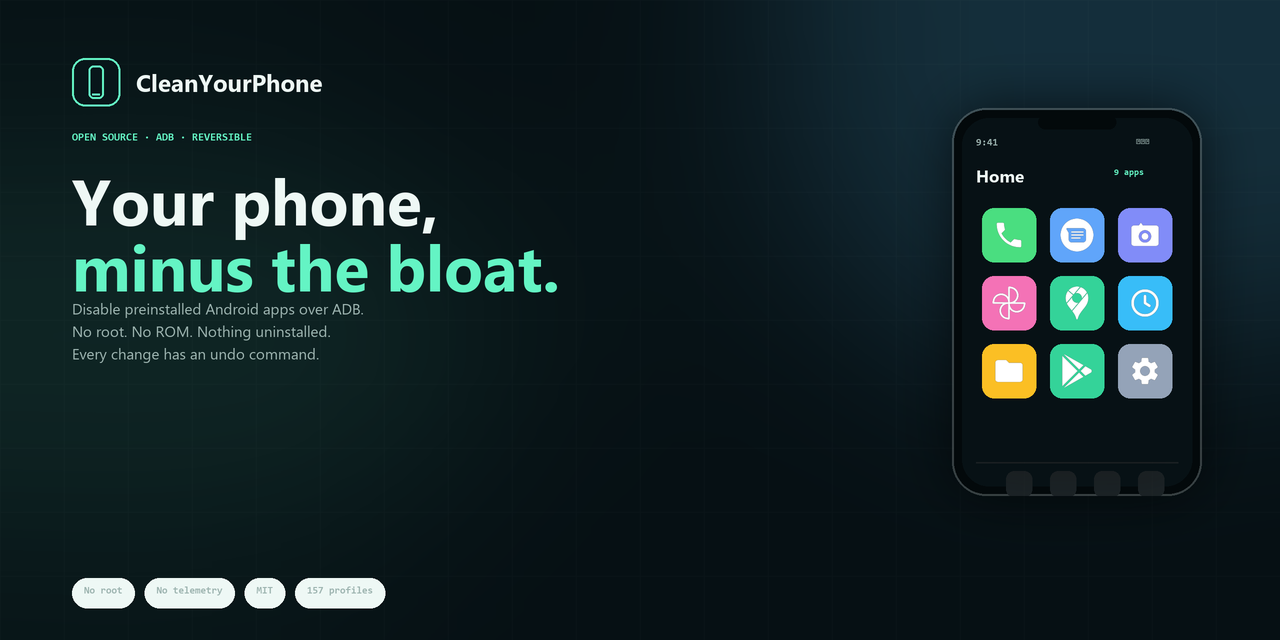
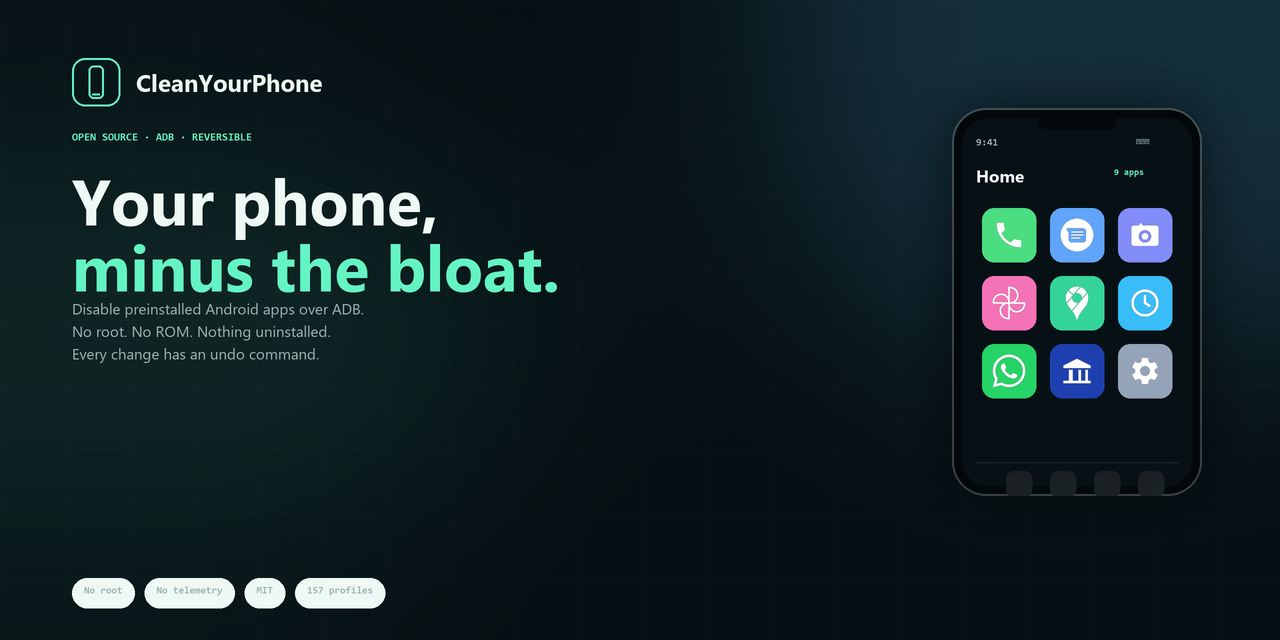
site: make the before/after demo reflect real OEM bloat
The demo now keeps WhatsApp, banking, photos and the rest of the user's apps. It removes only preinstalled OEM services: Samsung Free, TV Plus, Bixby, Tips, Themes, Games and Cloud. Update the plan counts, the hero copy, the note under the plan, the app marks and the banner/OG renders.

The previous Facebook/TikTok/Netflix/Spotify/Booking/AliExpress tiles were user apps, not what the skill disables, so they are removed.

Changed region(s): [[0.75, 0.5312, 0.875, 0.625]]

diff --git a/es.html b/es.html
@@ -83,7 +83,7 @@
       <div class="hero-copy">
         <p class="eyebrow"><span class="dot"></span> Código abierto · ADB · Reversible</p>
         <h1>Tu móvil,<br><span class="accent">sin lo que sobra.</span></h1>
-        <p class="lead">Una skill para agentes que desactiva apps preinstaladas de Android por ADB. Sin root, sin ROM, sin desinstalar nada y con un comando para deshacerlo todo.</p>
+        <p class="lead">Una skill para agentes que desactiva apps preinstaladas del fabricante por ADB. Sin root, sin ROM, sin desinstalar nada y con un comando para deshacerlo todo. WhatsApp, el banco y tus propias apps se quedan.</p>
         <div class="hero-actions">
           <a class="button button-primary" href="#how">Cómo funciona <span aria-hidden="true">→</span></a>
           <a class="button button-ghost" href="https://github.com/jparedesDS/clean-your-phone" rel="noopener">Ver en GitHub</a>
@@ -112,23 +112,23 @@
               <span class="phone-label">Inicio</span>
               <span class="phone-count" data-count>9 apps</span>
             </div>
-            <div class="app-grid" id="appGrid" data-view="after">
+            <div class="app-grid" id="appGrid" data-view="after" aria-label="Before and after: preinstalled OEM apps are disabled; your apps stay">
               <div class="app"><span class="app-icon tile-phone" aria-hidden="true"><img src="assets/apps/phone.svg" alt="" width="24" height="24"></span><span class="app-name">Teléfono</span></div>
               <div class="app"><span class="app-icon tile-messages" aria-hidden="true"><img src="assets/apps/googlemessages.svg" alt="" width="24" height="24"></span><span class="app-name">Mensajes</span></div>
               <div class="app"><span class="app-icon tile-camera" aria-hidden="true"><img src="assets/apps/camera.svg" alt="" width="24" height="24"></span><span class="app-name">Cámara</span></div>
               <div class="app"><span class="app-icon tile-photos" aria-hidden="true"><img src="assets/apps/googlephotos.svg" alt="" width="24" height="24"></span><span class="app-name">Fotos</span></div>
               <div class="app"><span class="app-icon tile-maps" aria-hidden="true"><img src="assets/apps/googlemaps.svg" alt="" width="24" height="24"></span><span class="app-name">Mapas</span></div>
               <div class="app"><span class="app-icon tile-clock" aria-hidden="true"><img src="assets/apps/clock.svg" alt="" width="24" height="24"></span><span class="app-name">Reloj</span></div>
-              <div class="app"><span class="app-icon tile-files" aria-hidden="true"><img src="assets/apps/files.svg" alt="" width="24" height="24"></span><span class="app-name">Archivos</span></div>
-              <div class="app"><span class="app-icon tile-play" aria-hidden="true"><img src="assets/apps/googleplay.svg" alt="" width="24" height="24"></span><span class="app-name">Play Store</span></div>
+              <div class="app"><span class="app-icon tile-whatsapp" aria-hidden="true"><img src="assets/apps/whatsapp.svg" alt="" width="24" height="24"></span><span class="app-name">WhatsApp</span></div>
+              <div class="app"><span class="app-icon tile-bank" aria-hidden="true"><img src="assets/apps/bank.svg" alt="" width="24" height="24"></span><span class="app-name">Banco</span></div>
               <div class="app"><span class="app-icon tile-settings" aria-hidden="true"><img src="assets/apps/settings.svg" alt="" width="24" height="24"></span><span class="app-name">Ajustes</span></div>
-              <div class="app bloat"><span class="app-icon tile-amazon" aria-hidden="true"><img src="assets/apps/amazon.svg" alt="" width="24" height="24"></span><span class="app-name">Amazon</span></div>
-              <div class="app bloat"><span class="app-icon tile-tiktok" aria-hidden="true"><img src="assets/apps/tiktok.svg" alt="" width="24" height="24"></span><span class="app-name">TikTok</span></div>
-              <div class="app bloat"><span class="app-icon tile-netflix" aria-hidden="true"><img src="assets/apps/netflix.svg" alt="" width="24" height="24"></span><span class="app-name">Netflix</span></div>
-              <div class="app bloat"><span class="app-icon tile-spotify" aria-hidden="true"><img src="assets/apps/spotify.svg" alt="" width="24" height="24"></span><span class="app-name">Spotify</span></div>
-              <div class="app bloat"><span class="app-icon tile-booking" aria-hidden="true"><img src="assets/apps/bookingdotcom.svg" alt="" width="24" height="24"></span><span class="app-name">Booking.com</span></div>
-              <div class="app bloat"><span class="app-icon tile-aliexpress" aria-hidden="true"><img src="assets/apps/aliexpress.svg" alt="" width="24" height="24"></span><span class="app-name">AliExpress</span></div>
-              <div class="app bloat"><span class="app-icon tile-facebook" aria-hidden="true"><img src="assets/apps/facebook.svg" alt="" width="24" height="24"></span><span class="app-name">Facebook</span></div>
+              <div class="app bloat"><span class="app-icon tile-samsung" aria-hidden="true"><img src="assets/apps/samsung.svg" alt="" width="24" height="24"></span><span class="app-name">Samsung Free</span></div>
+              <div class="app bloat"><span class="app-icon tile-tvplus" aria-hidden="true"><img src="assets/apps/tvplus.svg" alt="" width="24" height="24"></span><span class="app-name">TV Plus</span></div>
+              <div class="app bloat"><span class="app-icon tile-bixby" aria-hidden="true"><img src="assets/apps/bixby.svg" alt="" width="24" height="24"></span><span class="app-name">Bixby</span></div>
+              <div class="app bloat"><span class="app-icon tile-tips" aria-hidden="true"><img src="assets/apps/tips.svg" alt="" width="24" height="24"></span><span class="app-name">Consejos</span></div>
+              <div class="app bloat"><span class="app-icon tile-themes" aria-hidden="true"><img src="assets/apps/themes.svg" alt="" width="24" height="24"></span><span class="app-name">Temas</span></div>
+              <div class="app bloat"><span class="app-icon tile-games" aria-hidden="true"><img src="assets/apps/games.svg" alt="" width="24" height="24"></span><span class="app-name">Juegos</span></div>
+              <div class="app bloat"><span class="app-icon tile-cloud" aria-hidden="true"><img src="assets/apps/cloud.svg" alt="" width="24" height="24"></span><span class="app-name">Nube</span></div>
             </div>
             <div class="phone-dock" aria-hidden="true"><span></span><span></span><span></span><span></span></div>
           </div>
@@ -136,9 +136,10 @@
         <div class="plan-card" aria-label="Plan de ejemplo">
           <div class="plan-head"><span class="plan-file">plan.json</span><span class="plan-status">revisar antes de aplicar</span></div>
           <div class="plan-row"><span class="plan-action disable">DESACTIVAR</span><span>5 paquetes</span><span class="plan-note">un lote</span></div>
-          <div class="plan-row"><span class="plan-action ask">PREGUNTAR</span><span>3 paquetes</span><span class="plan-note">tu decisión</span></div>
+          <div class="plan-row"><span class="plan-action ask">PREGUNTAR</span><span>2 paquetes</span><span class="plan-note">tu decisión</span></div>
           <div class="plan-row"><span class="plan-action blocked">BLOQUEADO</span><span>0 paquetes</span><span class="plan-note">protegido</span></div>
         </div>
+        <p class="demo-note">Solo entran apps preinstaladas del fabricante. WhatsApp, el banco y tus fotos se quedan.</p>
       </div>
     </section>
 

diff --git a/index.html b/index.html
@@ -83,7 +83,7 @@
       <div class="hero-copy">
         <p class="eyebrow"><span class="dot"></span> Open source · ADB · Reversible</p>
         <h1>Your phone,<br><span class="accent">minus the bloat.</span></h1>
-        <p class="lead">A skill for coding agents that disables preinstalled Android apps over ADB. No root, no custom ROM, nothing uninstalled, and one command to undo every change.</p>
+        <p class="lead">A skill for coding agents that disables preinstalled OEM apps over ADB. No root, no custom ROM, nothing uninstalled, and one command to undo every change. WhatsApp, banking and your own apps stay.</p>
         <div class="hero-actions">
           <a class="button button-primary" href="#how">See how it works <span aria-hidden="true">→</span></a>
           <a class="button button-ghost" href="https://github.com/jparedesDS/clean-your-phone" rel="noopener">View on GitHub</a>
@@ -112,23 +112,23 @@
               <span class="phone-label">Home</span>
               <span class="phone-count" data-count>9 apps</span>
             </div>
-            <div class="app-grid" id="appGrid" data-view="after">
+            <div class="app-grid" id="appGrid" data-view="after" aria-label="Before and after: preinstalled OEM apps are disabled; your apps stay">
               <div class="app"><span class="app-icon tile-phone" aria-hidden="true"><img src="assets/apps/phone.svg" alt="" width="24" height="24"></span><span class="app-name">Phone</span></div>
               <div class="app"><span class="app-icon tile-messages" aria-hidden="true"><img src="assets/apps/googlemessages.svg" alt="" width="24" height="24"></span><span class="app-name">Messages</span></div>
               <div class="app"><span class="app-icon tile-camera" aria-hidden="true"><img src="assets/apps/camera.svg" alt="" width="24" height="24"></span><span class="app-name">Camera</span></div>
               <div class="app"><span class="app-icon tile-photos" aria-hidden="true"><img src="assets/apps/googlephotos.svg" alt="" width="24" height="24"></span><span class="app-name">Photos</span></div>
               <div class="app"><span class="app-icon tile-maps" aria-hidden="true"><img src="assets/apps/googlemaps.svg" alt="" width="24" height="24"></span><span class="app-name">Maps</span></div>
               <div class="app"><span class="app-icon tile-clock" aria-hidden="true"><img src="assets/apps/clock.svg" alt="" width="24" height="24"></span><span class="app-name">Clock</span></div>
-              <div class="app"><span class="app-icon tile-files" aria-hidden="true"><img src="assets/apps/files.svg" alt="" width="24" height="24"></span><span class="app-name">Files</span></div>
-              <div class="app"><span class="app-icon tile-play" aria-hidden="true"><img src="assets/apps/googleplay.svg" alt="" width="24" height="24"></span><span class="app-name">Play Store</span></div>
+              <div class="app"><span class="app-icon tile-whatsapp" aria-hidden="true"><img src="assets/apps/whatsapp.svg" alt="" width="24" height="24"></span><span class="app-name">WhatsApp</span></div>
+              <div class="app"><span class="app-icon tile-bank" aria-hidden="true"><img src="assets/apps/bank.svg" alt="" width="24" height="24"></span><span class="app-name">Bank</span></div>
               <div class="app"><span class="app-icon tile-settings" aria-hidden="true"><img src="assets/apps/settings.svg" alt="" width="24" height="24"></span><span class="app-name">Settings</span></div>
-              <div class="app bloat"><span class="app-icon tile-amazon" aria-hidden="true"><img src="assets/apps/amazon.svg" alt="" width="24" height="24"></span><span class="app-name">Amazon</span></div>
-              <div class="app bloat"><span class="app-icon tile-tiktok" aria-hidden="true"><img src="assets/apps/tiktok.svg" alt="" width="24" height="24"></span><span class="app-name">TikTok</span></div>
-              <div class="app bloat"><span class="app-icon tile-netflix" aria-hidden="true"><img src="assets/apps/netflix.svg" alt="" width="24" height="24"></span><span class="app-name">Netflix</span></div>
-              <div class="app bloat"><span class="app-icon tile-spotify" aria-hidden="true"><img src="assets/apps/spotify.svg" alt="" width="24" height="24"></span><span class="app-name">Spotify</span></div>
-              <div class="app bloat"><span class="app-icon tile-booking" aria-hidden="true"><img src="assets/apps/bookingdotcom.svg" alt="" width="24" height="24"></span><span class="app-name">Booking.com</span></div>
-              <div class="app bloat"><span class="app-icon tile-aliexpress" aria-hidden="true"><img src="assets/apps/aliexpress.svg" alt="" width="24" height="24"></span><span class="app-name">AliExpress</span></div>
-              <div class="app bloat"><span class="app-icon tile-facebook" aria-hidden="true"><img src="assets/apps/facebook.svg" alt="" width="24" height="24"></span><span class="app-name">Facebook</span></div>
+              <div class="app bloat"><span class="app-icon tile-samsung" aria-hidden="true"><img src="assets/apps/samsung.svg" alt="" width="24" height="24"></span><span class="app-name">Samsung Free</span></div>
+              <div class="app bloat"><span class="app-icon tile-tvplus" aria-hidden="true"><img src="assets/apps/tvplus.svg" alt="" width="24" height="24"></span><span class="app-name">TV Plus</span></div>
+              <div class="app bloat"><span class="app-icon tile-bixby" aria-hidden="true"><img src="assets/apps/bixby.svg" alt="" width="24" height="24"></span><span class="app-name">Bixby</span></div>
+              <div class="app bloat"><span class="app-icon tile-tips" aria-hidden="true"><img src="assets/apps/tips.svg" alt="" width="24" height="24"></span><span class="app-name">Tips</span></div>
+              <div class="app bloat"><span class="app-icon tile-themes" aria-hidden="true"><img src="assets/apps/themes.svg" alt="" width="24" height="24"></span><span class="app-name">Themes</span></div>
+              <div class="app bloat"><span class="app-icon tile-games" aria-hidden="true"><img src="assets/apps/games.svg" alt="" width="24" height="24"></span><span class="app-name">Games</span></div>
+              <div class="app bloat"><span class="app-icon tile-cloud" aria-hidden="true"><img src="assets/apps/cloud.svg" alt="" width="24" height="24"></span><span class="app-name">Cloud</span></div>
             </div>
             <div class="phone-dock" aria-hidden="true"><span></span><span></span><span></span><span></span></div>
           </div>
@@ -136,9 +136,10 @@
         <div class="plan-card" aria-label="Example plan">
           <div class="plan-head"><span class="plan-file">plan.json</span><span class="plan-status">review before apply</span></div>
           <div class="plan-row"><span class="plan-action disable">DISABLE</span><span>5 packages</span><span class="plan-note">one batch</span></div>
-          <div class="plan-row"><span class="plan-action ask">ASK</span><span>3 packages</span><span class="plan-note">your call</span></div>
+          <div class="plan-row"><span class="plan-action ask">ASK</span><span>2 packages</span><span class="plan-note">your call</span></div>
           <div class="plan-row"><span class="plan-action blocked">BLOCKED</span><span>0 packages</span><span class="plan-note">protected</span></div>
         </div>
+        <p class="demo-note">Only preinstalled OEM apps enter the plan. WhatsApp, banking and your photos stay.</p>
       </div>
     </section>
 

diff --git a/styles.css b/styles.css
@@ -406,16 +406,16 @@ p { margin: 0; }
 .tile-photos { background: linear-gradient(140deg, #f472b6, #db2777); }
 .tile-maps { background: linear-gradient(140deg, #34d399, #0f9d58); }
 .tile-clock { background: linear-gradient(140deg, #38bdf8, #0284c7); }
-.tile-files { background: linear-gradient(140deg, #fbbf24, #d97706); }
-.tile-play { background: linear-gradient(140deg, #34d399, #047857); }
 .tile-settings { background: linear-gradient(140deg, #94a3b8, #475569); }
-.tile-amazon { background: linear-gradient(140deg, #37475a, #131a22); }
-.tile-tiktok { background: #010101; }
-.tile-netflix { background: #000000; }
-.tile-spotify { background: #1db954; }
-.tile-booking { background: #003b95; }
-.tile-aliexpress { background: #e62e04; }
-.tile-facebook { background: #1877f2; }
+.tile-whatsapp { background: #25d366; }
+.tile-bank { background: linear-gradient(140deg, #3b82f6, #1e40af); }
+.tile-samsung { background: #1428a0; }
+.tile-tvplus { background: linear-gradient(140deg, #334155, #0f172a); }
+.tile-bixby { background: linear-gradient(140deg, #8b5cf6, #6d28d9); }
+.tile-tips { background: linear-gradient(140deg, #fbbf24, #d97706); }
+.tile-themes { background: linear-gradient(140deg, #f472b6, #be185d); }
+.tile-games { background: linear-gradient(140deg, #a78bfa, #7c3aed); }
+.tile-cloud { background: linear-gradient(140deg, #38bdf8, #0369a1); }
 
 .app-grid[data-view="after"] { grid-template-columns: repeat(3, 1fr); }
 .app-grid[data-view="after"] .bloat { display: none; }
@@ -481,6 +481,7 @@ p { margin: 0; }
 .plan-action.ask { color: var(--warm); }
 .plan-action.blocked { color: var(--danger); }
 .plan-note { color: var(--muted-2); font-size: 10px; }
+.demo-note { margin: 0 2px; color: var(--muted-2); font-size: 11px; line-height: 1.45; }
 
 .section {
   width: min(var(--max), calc(100% - 40px));

diff --git a/tools/make_assets.py b/tools/make_assets.py
@@ -25,7 +25,7 @@ ACCENT_2 = (94, 200, 255)
 WARM = (255, 184, 107)
 TILE_COLORS = [
     (74, 222, 128), (96, 165, 250), (129, 140, 248), (244, 114, 182),
-    (52, 211, 153), (56, 189, 248), (251, 191, 36), (52, 211, 153),
+    (52, 211, 153), (56, 189, 248), (37, 211, 102), (30, 64, 175),
     (148, 163, 184), (142, 232, 224), (94, 200, 255), (100, 244, 196),
     (255, 212, 121), (246, 166, 193), (195, 181, 255), (158, 240, 168),
 ]
@@ -109,7 +109,7 @@ def phone_panel(width: int, height: int, scale: int) -> Image.Image:
     cols, rows = 3, 3
     labels = ["Ph", "Ms", "Ca", "Fo", "Ma", "Cl", "Fi", "Pl", "Se"]
     icons = ["phone", "googlemessages", "camera", "googlephotos", "googlemaps",
-             "clock", "files", "googleplay", "settings"]
+             "clock", "whatsapp", "bank", "settings"]
     left, top = 30 * s, 100 * s
     gap_x = 14 * s
     tile = (width * s - left * 2 - gap_x * (cols - 1)) // cols

diff --git a/assets/apps/README.md b/assets/apps/README.md
@@ -9,24 +9,20 @@ Downloaded from [Simple Icons](https://simpleicons.org/) (CC0 1.0) through
 
 | File | Source | Color |
 |---|---|---|
+| `whatsapp.svg` | `whatsapp` | white |
 | `googlemessages.svg` | `googlemessages` | white |
 | `googlephotos.svg` | `googlephotos` | white |
 | `googlemaps.svg` | `googlemaps` | white |
-| `googleplay.svg` | `googleplay` | white |
-| `facebook.svg` | `facebook` | white |
-| `tiktok.svg` | `tiktok` | white |
-| `netflix.svg` | `netflix` | `#e50914` |
-| `spotify.svg` | `spotify` | black |
-| `bookingdotcom.svg` | `bookingdotcom` | white |
-| `aliexpress.svg` | `aliexpress` | white |
+| `samsung.svg` | `samsung` | white |
 
 `png/` contains 2× renders of the system marks used by `tools/make_assets.py` for the banner and
 social preview. The site uses the SVGs; the PNGs are not requested by the page.
 
-## System and Amazon glyphs
+## System and OEM glyphs
 
-`phone.svg`, `camera.svg`, `clock.svg`, `files.svg`, `settings.svg` and `amazon.svg` were drawn for
-this project and are MIT, like the rest of the site.
+`phone.svg`, `camera.svg`, `clock.svg`, `settings.svg`, `bank.svg`, `tvplus.svg`, `bixby.svg`,
+`tips.svg`, `themes.svg`, `games.svg` and `cloud.svg` were drawn for this project and are MIT, like
+the rest of the site. They represent preinstalled OEM apps and services in an illustrative demo.
 
-The marks identify the apps in an illustrative demo. All trademarks belong to their owners; this
+The marks identify apps and services in the demo. All trademarks belong to their owners; this
 project is not affiliated with or endorsed by them.
